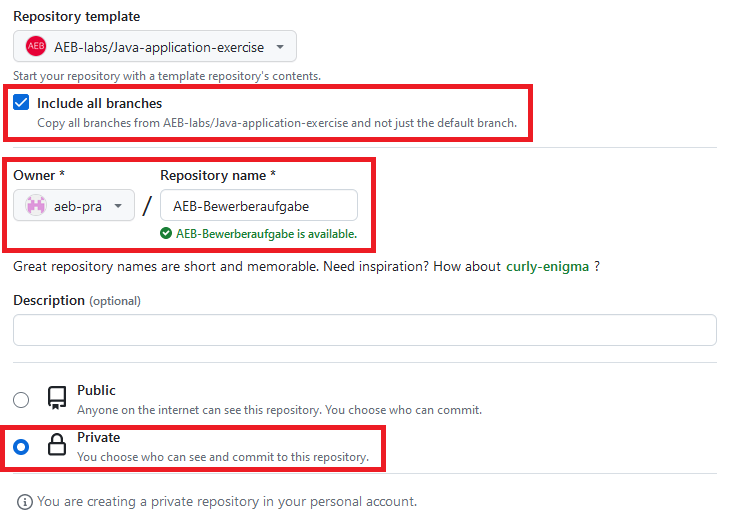
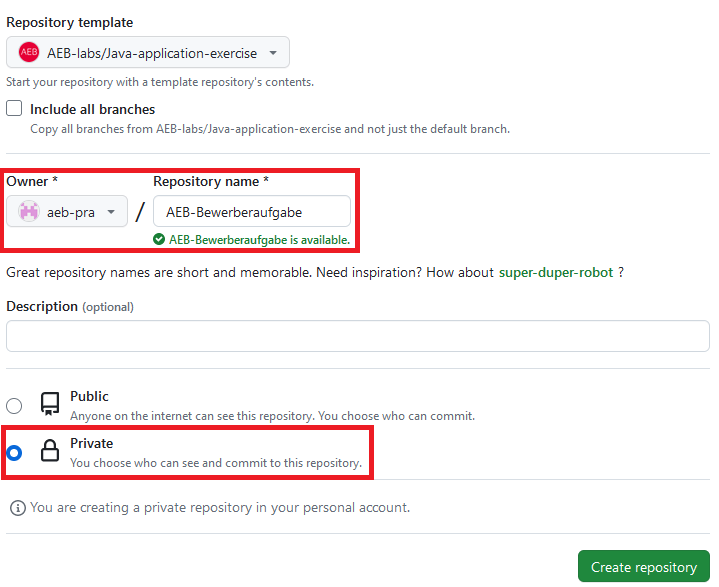
Update git commands

diff --git a/docs/de/Einrichten.md b/docs/de/Einrichten.md
@@ -17,12 +17,12 @@ Bevor Du mit dem Programmieren beginnen kannst, musst Du die Bewerberaufgabe ric
 > [!TIP]  
 > GitHub Templates ist der schnellste Weg, um das Projekt für die Programmierung vorzubereiten.
 
-| Schritte                                                                                                                                                                                                                                                                                                                   | Bild                                                                |
-|----------------------------------------------------------------------------------------------------------------------------------------------------------------------------------------------------------------------------------------------------------------------------------------------------------------------------|---------------------------------------------------------------------|
-| <ul><li> Dafür klicke auf `Use this template` und dann auf `Create a new repository`. </li></ul>                                                                                                                                                                                                                           | ![Use this template](/docs/assets/images/template.png)              |
-| <ul><li> Wähle dann `Include all branches` aus. </li><li> Achte darauf, dass unter `Owner` Dein Benutzername steht und nicht eine Gruppe oder Organisation. </li><li> Den `Repository name` und die `Description` kannst Du frei wählen. </li><li> Wähle die Option `Private` damit Dein Repository privat ist. </li></ul> | ![Create new repository](/docs/assets/images/create-repository.png) |
-| <ul><li> Nachdem Du das private Repository erstellt hast, musst Du uns Zugriff darauf gewähren. </li><li> Dazu klickst Du auf `Settings`, dann auf `Collaborators` und wählst unter `Manage access` die Schaltfläche `Add people`. </li><li> Im Eingabefeld trägst Du die genannten E-Mail-Addressen ein. </li></ul>       | ![Access](/docs/assets/images/access.png)                           |
-| <ul><li> In deinem Repository gehe zurück zu `Code` und klicke auf den grünen `Code` Button. </li><li> Am einfachsten ist es, den Code über `HTTPS` herunterzuladen. <br /> Dazu wähle HTTPS und klicke auf das Kopiersymbol. </li></ul>                                                                                   | ![Git clone](/docs/assets/images/git-clone.png)                     |
+| Schritte                                                                                                                                                                                                                                                                                                             | Bild                                                                |
+|----------------------------------------------------------------------------------------------------------------------------------------------------------------------------------------------------------------------------------------------------------------------------------------------------------------------|---------------------------------------------------------------------|
+| <ul><li> Dafür klicke auf `Use this template` und dann auf `Create a new repository`. </li></ul>                                                                                                                                                                                                                     | ![Use this template](/docs/assets/images/template.png)              |
+| <ul><li> Achte darauf, dass unter `Owner` Dein Benutzername steht und nicht eine Gruppe oder Organisation. </li><li> Den `Repository name` und die `Description` kannst Du frei wählen. </li><li> Wähle die Option `Private` damit Dein Repository privat ist. </li></ul>                                            | ![Create new repository](/docs/assets/images/create-repository.png) |
+| <ul><li> Nachdem Du das private Repository erstellt hast, musst Du uns Zugriff darauf gewähren. </li><li> Dazu klickst Du auf `Settings`, dann auf `Collaborators` und wählst unter `Manage access` die Schaltfläche `Add people`. </li><li> Im Eingabefeld trägst Du die genannten E-Mail-Addressen ein. </li></ul> | ![Access](/docs/assets/images/access.png)                           |
+| <ul><li> In deinem Repository gehe zurück zu `Code` und klicke auf den grünen `Code` Button. </li><li> Am einfachsten ist es, den Code über `HTTPS` herunterzuladen. <br /> Dazu wähle HTTPS und klicke auf das Kopiersymbol. </li></ul>                                                                             | ![Git clone](/docs/assets/images/git-clone.png)                     |
 
 Nachdem Du das Projekt vorbereitet hast, gibt es noch ein paar Schritte in Git zu erledigen. Wenn Du noch nie mit Git gearbeitet hast, musst Du es zuerst [installieren](https://git-scm.com/downloads).
 
@@ -31,7 +31,7 @@ Dann öffnest Du eine Konsole (z.B. `cmd`) die Git unterstützt. Wenn Du Dir uns
 ```bash
 git clone https://github.com/[GitHub-Benutzername]/[Repository-Name].git # Hier den Link vom HTTPS einfügen
 cd [Repository-Name] # Hier den Namen von deinem Repository z.B. AEB-Bewerberaufgabe
-git switch dev # Wechselt zum Branch dev
+git checkout -b dev # Wechselt zum Branch dev
 ```
 
 <a name="clone"></a>
@@ -43,7 +43,7 @@ git switch dev # Wechselt zum Branch dev
 
 Du kannst natürlich die Bewerberaufgabe auch klonen und in Dein eigenes **privates** Repository pushen oder importieren. Dein Code muss nicht auf GitHub gehostet sein. Dir steht frei andere Anbieter zu nutzen. Du musst nur sicherstellen, dass wir Zugriff auf Deinen Code haben und dass der Code privat ist.  
 
-Bitte arbeite in dem Branch `dev`, um deine Änderungen besser vergleichen zu können.  
+Bitte arbeite in einem Branch `dev`, um deine Änderungen besser vergleichen zu können.  
 
 <a name="zip"></a>
 

diff --git a/docs/en/setup.md b/docs/en/setup.md
@@ -20,7 +20,7 @@ Before you can start programming, you need to prepare the application exercise p
 | Steps                                                                                                                                                                                                                                                                                               | Image                                                               |
 |-----------------------------------------------------------------------------------------------------------------------------------------------------------------------------------------------------------------------------------------------------------------------------------------------------|---------------------------------------------------------------------|
 | <ul><li> To do this, click `Use this template` and then click `Create a new repository`. </li></ul>                                                                                                                                                                                                 | ![Use this template](/docs/assets/images/template.png)              |
-| <ul><li> Then select `Include all branches`. </li><li> Make sure that the `Owner` is your user name, not a group or organisation. </li><li> You can choose any `Repository name` and `Description`. </li><li> Select the `Private` option to create a private repository. </li></ul>                | ![Create new repository](/docs/assets/images/create-repository.png) |
+| <ul><li> Make sure that the `Owner` is your user name, not a group or organisation. </li><li> You can choose any `Repository name` and `Description`. </li><li> Select the `Private` option to create a private repository. </li></ul>                                                              | ![Create new repository](/docs/assets/images/create-repository.png) |
 | <ul><li> Once you have created the private repository, you need to give us access to it. </li><li> To do this, click on `Settings`, then on `Collaborators`, and under `Manage access`, select the `Add people` button. </li><li> Enter the provided email addresses in the input field. </li></ul> | ![Access](/docs/assets/images/access.png)                           |
 | <ul><li>In your repository, go back to `Code` and click the green `Code` button. </li><li>The easiest way to download the code is via HTTPS. </li><li> To do this, select `HTTPS` and click the copy icon.</li></ul>                                                                                | ![Git clone](/docs/assets/images/git-clone.png)                     |
 
@@ -31,7 +31,7 @@ Then open a console (e.g. `cmd`) that supports Git. If you are unsure, run `git 
 ```bash
 git clone https://github.com/[GitHub-Benutzername]/[Repository-Name].git # Insert the link from the HTTPS here
 cd [Repository-Name] # Here is the name of your repository, e.g. AEB-application-exercise
-git switch dev # Swaps to the branch dev
+git checkout -b dev # Swaps to the branch dev
 ```
 
 <a name="clone"></a>
@@ -43,7 +43,7 @@ git switch dev # Swaps to the branch dev
 
 You can of course also clone the application exercise and push or import it into your own **private** repository. Your code does not need to be hosted on GitHub. You are free to use other providers. You just need to make sure that we have access to your code and that it is private.  
 
-Please work in the `dev` branch to better compare your changes.  
+Please work in a branch called `dev` to compare your changes better.  
 
 <a name="zip"></a>
 

diff --git a/docs/de/Abgabe.md b/docs/de/Abgabe.md
@@ -18,7 +18,7 @@ Bevor dein Code auf GitHub erscheint, muss er über Git hochgeladen werden. Öff
 ```bash
 git add . # Markiert alle Dateien für den Upload
 git commit -m "Add files" # Du kannst hier auch eine andere Nachricht eingeben
-git push # Lädt Dateien in das Repository hoch
+git push -u origin dev # Lädt Dateien in das Repository hoch
 ```
 
 Danach musst Du nur noch einige Einstellungen im Repository auf GitHub vornehmen, um Deinen Code einzureichen.

diff --git a/docs/en/submit.md b/docs/en/submit.md
@@ -18,7 +18,7 @@ Before your code appears on GitHub, you need to upload it using Git. To do this,
 ```bash
 git add . # Marks all files for upload
 git commit -m "Add files" # You can also enter a different message here
-git push # Upload files to the repository
+git push -u origin dev # Upload files to the repository
 ```
 
 After that, you just need to make a few settings in the repository on GitHub to submit your code.
